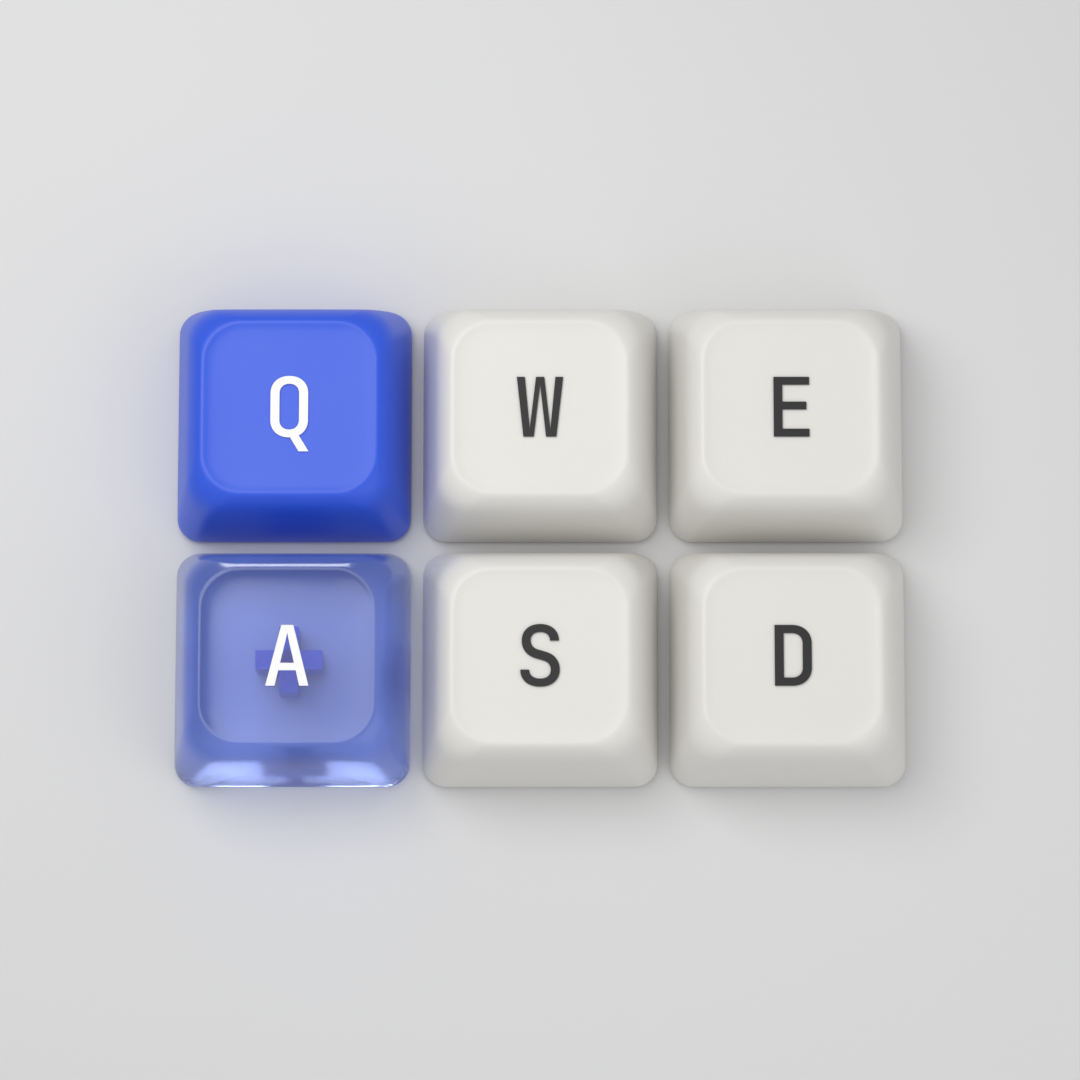
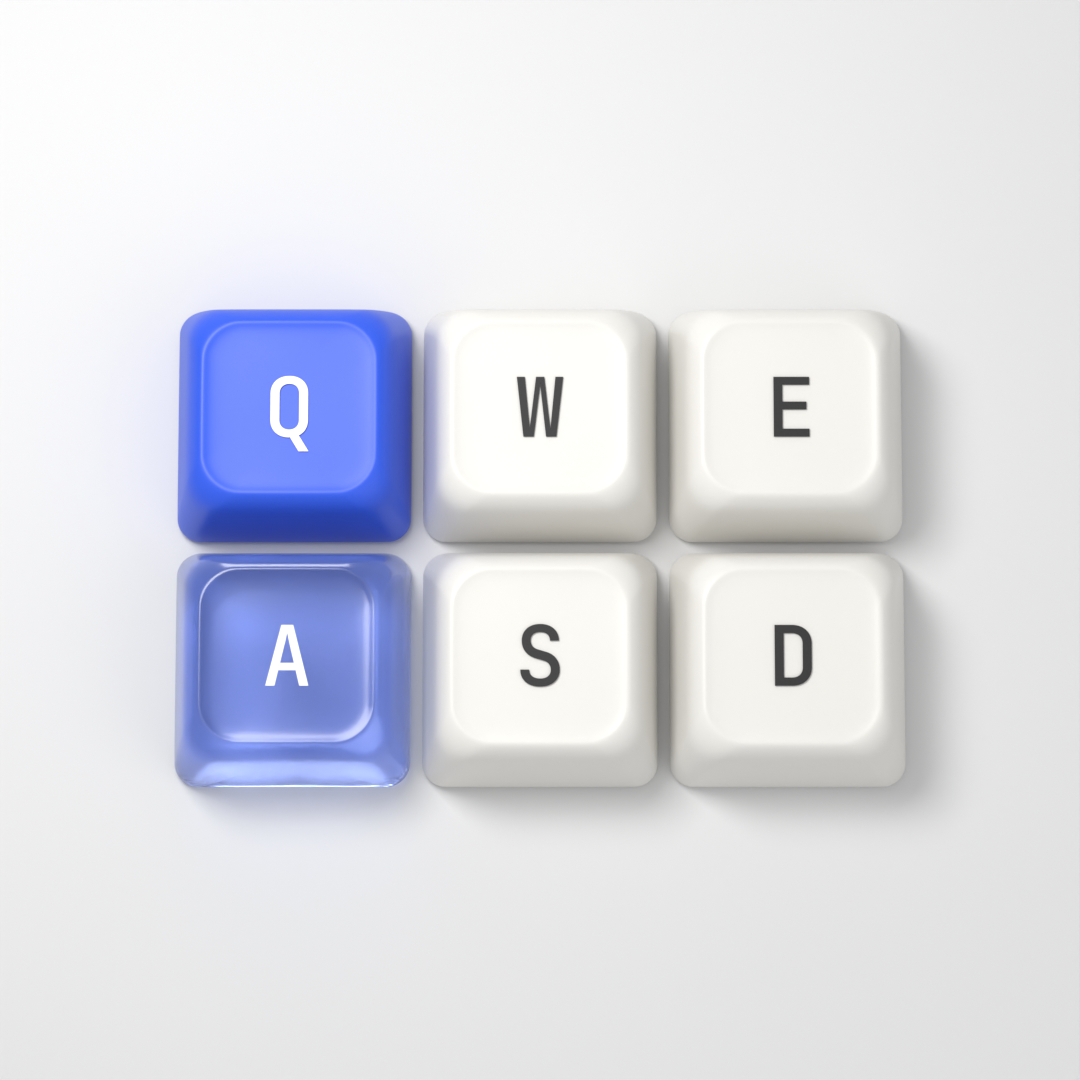
Teclas: sin cruz detrás de la A, azul mate, sombras y fondo infinito
- El vástago queda opcional (VASTAGO = False): de frente tapaba la A
- Azul tan mate como el blanco
- Softbox más chico: sombras con más dirección
- Piso que sube en curva atrás (fondo infinito) para las tomas bajas

Claude-Session: https://claude.ai/code/session_0121m7YK9CXNaJS4Mb2Yre8x

diff --git a/teclas/teclas.py b/teclas/teclas.py
@@ -25,6 +25,7 @@ from mathutils import Matrix, Vector
 FILAS = [["Q", "W", "E"], ["A", "S", "D"]]   # orden del teclado
 AZULES = {"Q", "A"}                           # teclas de plástico azul
 TRANSPARENTE = "A"                            # la tecla de azul medio transparente
+VASTAGO = False           # True = se ve la cruz del vástago adentro (de frente tapa la letra)
 
 COLOR_AZUL = "#2D5BE3"
 COLOR_BLANCO = "#E9E7E2"      # PBT blanco hueso, como la referencia
@@ -135,14 +136,14 @@ def vastago(x, y, mat):
     for nombre, (sx, sy) in (("Vastago X", (0.28, 0.08)), ("Vastago Y", (0.08, 0.28))):
         bm = bmesh.new()
         bmesh.ops.create_cube(bm, size=1.0)
-        bmesh.ops.scale(bm, vec=(sx, sy, ALTO * 0.55), verts=bm.verts)
+        bmesh.ops.scale(bm, vec=(sx, sy, ALTO * 0.4), verts=bm.verts)
         me = bpy.data.meshes.new(nombre)
         bm.to_mesh(me)
         bm.free()
         me.materials.append(mat)
         ob = bpy.data.objects.new(nombre, me)
         bpy.context.scene.collection.objects.link(ob)
-        ob.location = (x, y, ALTO * 0.35)
+        ob.location = (x, y, ALTO * 0.2)  # bajo: no se cruza con la letra
 
 
 def letra(caracter, nombre):
@@ -217,11 +218,27 @@ def tinta(nombre, color):
 
 # ---------- Escena ----------
 def crear_piso():
+    # fondo infinito: el piso sube en curva atrás (se ve en las tomas bajas)
+    pared_y, radio, ancho = 8.0, 6.0, 80.0
+    perfil = [(y, 0.0) for y in (-40.0, 0.0, pared_y - radio)]
+    for i in range(1, 32):
+        a = i / 32 * math.pi / 2
+        perfil.append((pared_y - radio + radio * math.sin(a), radio - radio * math.cos(a)))
+    perfil += [(pared_y, radio + 40.0)]
     bm = bmesh.new()
-    bmesh.ops.create_grid(bm, x_segments=1, y_segments=1, size=40)
+    filas = [[bm.verts.new((x, y, z)) for x in (-ancho / 2, 0.0, ancho / 2)] for y, z in perfil]
+    for a, b in zip(filas, filas[1:]):
+        for j in range(2):
+            bm.faces.new((a[j], a[j + 1], b[j + 1], b[j]))
+    bm.normal_update()
+    bm.faces.ensure_lookup_table()
+    if bm.faces[0].normal.z < 0:
+        bmesh.ops.reverse_faces(bm, faces=bm.faces[:])
     me = bpy.data.meshes.new("Piso")
     bm.to_mesh(me)
     bm.free()
+    for p in me.polygons:
+        p.use_smooth = True
     ob = bpy.data.objects.new("Piso", me)
     bpy.context.scene.collection.objects.link(ob)
     mat = bpy.data.materials.new("Fondo gris")
@@ -262,7 +279,7 @@ def main():
     escena = bpy.context.scene
 
     blanco = plastico("PBT blanco", COLOR_BLANCO)
-    azul = plastico("PBT azul", COLOR_AZUL, 0.38)
+    azul = plastico("PBT azul", COLOR_AZUL)
     azul_transp = plastico_transparente("Azul transparente", COLOR_AZUL)
     tinta_oscura = tinta("Letra oscura", COLOR_LETRA_OSCURA)
     tinta_clara = tinta("Letra clara", COLOR_LETRA_CLARA)
@@ -277,7 +294,8 @@ def main():
             t.location = (x, y, 0)
             if caracter == TRANSPARENTE:
                 t.data.materials.append(azul_transp)
-                vastago(x, y, azul)  # se ve a través: el vástago en cruz de la tecla
+                if VASTAGO:
+                    vastago(x, y, azul_transp)  # se ve a través: el vástago en cruz
             else:
                 t.data.materials.append(azul if caracter in AZULES else blanco)
             le = letra(caracter, "Letra " + caracter)
@@ -310,8 +328,8 @@ def main():
     # softbox grande arriba a la izquierda: sombras suaves hacia abajo a la derecha
     # dos softbox: uno grande y alto, centrado (fondo parejo) y uno arriba a la izquierda
     # que da la dirección de las sombras, como en la referencia
-    luz("Cenital", 380, (0, 0, 14), 24)
-    luz("Softbox", 320, (-3, 2.5, 8), 6)
+    luz("Cenital", 300, (0, 0, 14), 24)
+    luz("Softbox", 520, (-3, 2.5, 8), 3.5)  # más chico: sombra más marcada abajo a la derecha
     luz("Relleno", 90, (5, -4, 6), 6, (0.96, 0.97, 1.0))
     # contraluz baja detrás: hace brillar la tecla transparente
     contra = luz("Contraluz", 320, (-1.5, 5, 2), 3)
